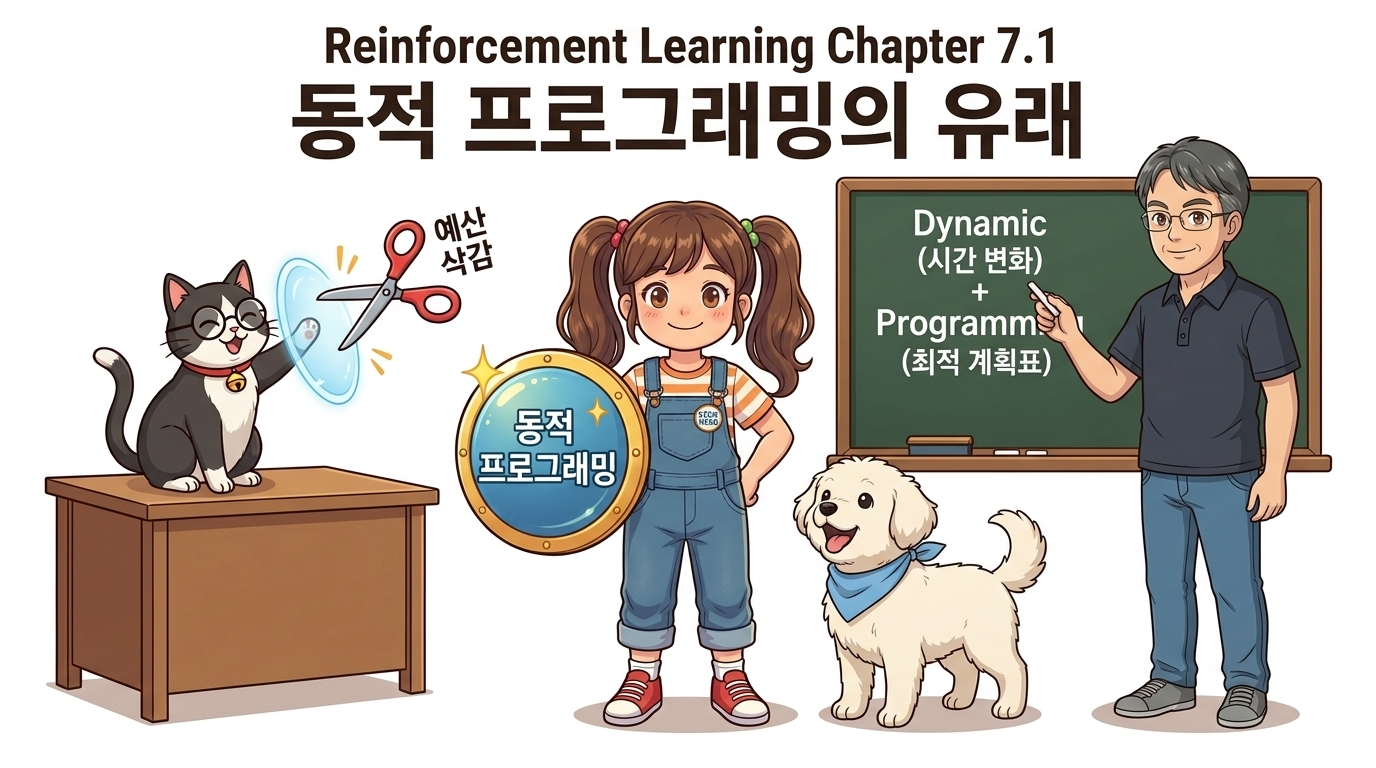
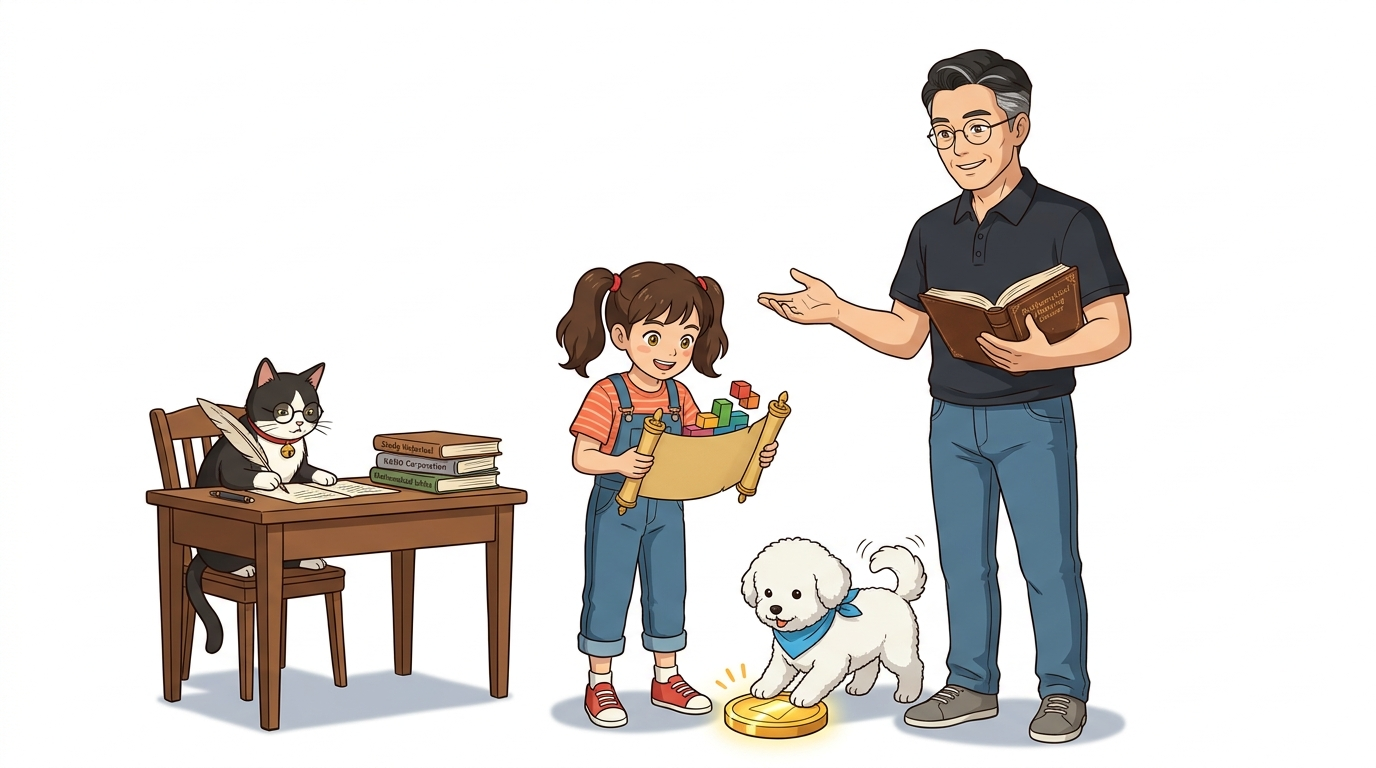
feat(ch07): 7장 동적 프로그래밍 전 서브챕터(7_1~7_7) 커버 이미지 및 프롬프트 재정의 생성, 지킬 빌드 완료

diff --git a/docs/07_동적_프로그래밍/7_4_정책_반복법/index.html b/docs/07_동적_프로그래밍/7_4_정책_반복법/index.html
@@ -631,14 +631,8 @@
         <div class="bd-content ps-lg-4">
             <h1 id="074-정책-반복법">07.4 정책 반복법</h1>
 
-<p><img src="./7_4_정책_반복법.png" alt="정책 반복법 사이클: 정책 평가와 정책 발전" /></p>
-
-<p>언제나 최종 목표는 최적 정책 찾기입니다.</p>
-
-<p><strong>그림 07-14-0</strong> 정책 평가(Evaluation)와 정책 개선(Improvement)의 핑퐁 탁구 랠리를 이어가는 지니와 도로시
-<img src="./img/jiny_dorothy_policy_iteration_pingpong.png" alt="정책 반복법 인트로" /></p>
-
-<p>정책 반복법(Policy Iteration)은 한 번에 정답 지도를 완벽하게 구하려 욕심내지 않습니다. 그 대신, 현재 엉성한 지도의 점수를 정직하게 매기는 <strong>‘정책 평가’</strong>와, 매겨진 점수를 보고 조금 더 좋은 방향으로 지도를 고치는 <strong>‘정책 개선’</strong>의 두 과정을 탁구공(핑퐁)처럼 끊임없이 주거니 받거니 반복하며 결국에는 완벽한 최적 정책 지도로 수렴해 나가는 전략입니다. 지니가 열어준 핑퐁 랠리처럼 두 과정이 어떻게 주거니 받거니 엮이는지 함께 살펴볼까요?</p>
+<p><img src="./7_4_정책_반복법.png" alt="07.4 정책 반복법" />
+<strong>그림 07-4-Intro</strong> 정책 평가와 정책 개선이 상호작용하며 최적 정책에 수렴하는 정책 반복법 (이호진 교수와 도로시 탐험대)</p>
 
 <hr />
 

diff --git a/docs/07_동적_프로그래밍/7_1_유래/index.html b/docs/07_동적_프로그래밍/7_1_유래/index.html
@@ -631,6 +631,11 @@
         <div class="bd-content ps-lg-4">
             <h1 id="071-동적-프로그래밍의-유래">07.1 동적 프로그래밍의 유래</h1>
 
+<p><img src="./7_1_유래.png" alt="07.1 동적 프로그래밍의 유래" />
+<strong>그림 07-1-Intro</strong> 1950년대 리처드 벨만의 계획표(Planning Table)와 메모이제이션의 유래를 탐구하는 이호진 교수와 도로시 탐험대</p>
+
+<hr />
+
 <p>강화 학습과 컴퓨터 과학에서 가장 핵심적인 최적화 기둥으로 손꼽히는 <strong>동적 프로그래밍(Dynamic Programming, DP)</strong>이라는 용어는 처음 접하는 이들에게 왠지 모를 기술적 위압감을 줍니다. 많은 사람들이 컴퓨터 메모리를 동적으로 쪼개고 코드를 한 줄 한 줄 극한으로 최적화하는 복잡한 저수준 시스템 프로그래밍 기법을 먼저 연상하곤 합니다.</p>
 
 <p><img src="./img/01_dp_technical_intimidation.png" alt="동적 프로그래밍의 기술적 위압감" />

diff --git a/docs/07_동적_프로그래밍/7_2_동적_프로그래밍과_정책_평가/index.html b/docs/07_동적_프로그래밍/7_2_동적_프로그래밍과_정책_평가/index.html
@@ -631,6 +631,11 @@
         <div class="bd-content ps-lg-4">
             <h1 id="072-동적-프로그래밍과-정책-평가">07.2 동적 프로그래밍과 정책 평가</h1>
 
+<p><img src="./7_2_동적_프로그래밍과_정책_평가.png" alt="07.2 동적 프로그래밍과 정책 평가" />
+<strong>그림 07-2-Intro</strong> 벨만 기대 방정식의 반복적 갱신(Iterative Policy Evaluation)을 통해 상태 가치 함수를 계산하는 이호진 교수와 도로시 탐험대</p>
+
+<hr />
+
 <p>동적 프로그래밍(Dynamic Programming, DP)은 <strong>환경의 모든 정보(규칙)를 완벽하게 알고 있는 상태</strong>에서, 컴퓨터의 반복 연산을 통해 지도의 가치를 안전하고 정밀하게 <strong>계산해내는 방식</strong>입니다.</p>
 
 <p>마법사 고양이 지니가 칠판 가득 그려준 개념도처럼, 우리가 가진 환경 정보를 어떻게 진짜 가치 지도로 탈바꿈시키는지 7장의 모험을 힘차게 시작해봅시다!</p>

diff --git a/docs/07_동적_프로그래밍/7_7_정리/index.html b/docs/07_동적_프로그래밍/7_7_정리/index.html
@@ -631,6 +631,11 @@
         <div class="bd-content ps-lg-4">
             <h1 id="077-정리">07.7 정리</h1>
 
+<p><img src="./7_7_정리.png" alt="07.7 정리" />
+<strong>그림 07-7-Intro</strong> 정책 반복법과 가치 반복법을 완벽 정리하고 모델-프리(Model-Free) 강화학습으로 도약하는 이호진 교수와 도로시 탐험대</p>
+
+<hr />
+
 <p>이번 7장에서는 환경의 모델(전이 확률 $p$와 보상 $r$)을 완벽히 알고 있는 상태에서, 컴퓨터의 반복 연산만으로 최적 정책을 찾아내는 <strong>동적 프로그래밍(Dynamic Programming, DP)</strong>의 핵심 이론과 구현을 모두 마스터했습니다. 그 주인공은 바로 <strong>정책 반복법(Policy Iteration)</strong>과 <strong>가치 반복법(Value Iteration)</strong>입니다.</p>
 
 <p><img src="./img/dp_summary_two_methods.png" alt="동적 프로그래밍의 두 기둥: 정책 반복법과 가치 반복법" />

diff --git a/docs/07_동적_프로그래밍/7_5_정책_반복법_구현/index.html b/docs/07_동적_프로그래밍/7_5_정책_반복법_구현/index.html
@@ -631,6 +631,11 @@
         <div class="bd-content ps-lg-4">
             <h1 id="075-정책-반복법-구현">07.5 정책 반복법 구현</h1>
 
+<p><img src="./7_5_정책_반복법_구현.png" alt="07.5 정책 반복법 구현" />
+<strong>그림 07-5-Intro</strong> 파이썬 코드로 정책 평가와 개선의 수렴 조건($\Delta &lt; \theta$)을 직접 실행·검증하는 이호진 교수와 도로시 탐험대</p>
+
+<hr />
+
 <p>정책 반복법을 이용하여 최적 정책을 찾아봅시다.</p>
 
 <p><strong>그림 07-14-1</strong> 정책 평가와 개선 기어를 파이썬 렌치로 유기적으로 연결하여 조립하는 지니와 도로시

diff --git a/docs/07_동적_프로그래밍/7_3_더_큰_문제를_향해/index.html b/docs/07_동적_프로그래밍/7_3_더_큰_문제를_향해/index.html
@@ -631,6 +631,11 @@
         <div class="bd-content ps-lg-4">
             <h1 id="073-더-큰-문제를-향해">07.3 더 큰 문제를 향해</h1>
 
+<p><img src="./7_3_더_큰_문제를_향해.png" alt="07.3 더 큰 문제를 향해" />
+<strong>그림 07-3-Intro</strong> 4×4 대형 격자 공간으로의 확장과 제자리(In-Place) 갱신의 효율성을 체감하는 이호진 교수와 도로시 탐험대</p>
+
+<hr />
+
 <p><strong>그림 07-7-1</strong> 좁은 2칸의 방을 벗어나 3x4 격자 숲속으로 모험 영역을 확장하는 지니, 도로시, 토토
 <img src="./img/jiny_dorothy_gridworld_expansion.png" alt="그림 07-7-1" /></p>
 

diff --git a/docs/07_동적_프로그래밍/7_6_가치_반복법/index.html b/docs/07_동적_프로그래밍/7_6_가치_반복법/index.html
@@ -631,6 +631,11 @@
         <div class="bd-content ps-lg-4">
             <h1 id="076-가치-반복법">07.6 가치 반복법</h1>
 
+<p><img src="./7_6_가치_반복법.png" alt="07.6 가치 반복법" />
+<strong>그림 07-6-Intro</strong> 단 한 번의 스윕으로 벨만 최적 방정식을 적용하여 최댓값(MAX)을 찾는 가치 반복법 (이호진 교수와 도로시 탐험대)</p>
+
+<hr />
+
 <p>앞에서는 정책 반복법을 사용하여 최적 정책을 찾았습니다.</p>
 
 <p><strong>그림 07-20-1</strong> 홀로그램 지도의 각 격자점 가치를 직접 최대(max)로 갱신하는 것을 관찰하는 지니와 도로시

diff --git a/src/07_동적_프로그래밍/7_4_정책_반복법/index.md b/src/07_동적_프로그래밍/7_4_정책_반복법/index.md
@@ -5,18 +5,10 @@ title: "07.4 정책 반복법"
 
 # 07.4 정책 반복법
 
-![정책 반복법 사이클: 정책 평가와 정책 발전](./7_4_정책_반복법.png)
-
-언제나 최종 목표는 최적 정책 찾기입니다. 
-
-**그림 07-14-0** 정책 평가(Evaluation)와 정책 개선(Improvement)의 핑퐁 탁구 랠리를 이어가는 지니와 도로시
-![정책 반복법 인트로](./img/jiny_dorothy_policy_iteration_pingpong.png)
-
-정책 반복법(Policy Iteration)은 한 번에 정답 지도를 완벽하게 구하려 욕심내지 않습니다. 그 대신, 현재 엉성한 지도의 점수를 정직하게 매기는 **'정책 평가'**와, 매겨진 점수를 보고 조금 더 좋은 방향으로 지도를 고치는 **'정책 개선'**의 두 과정을 탁구공(핑퐁)처럼 끊임없이 주거니 받거니 반복하며 결국에는 완벽한 최적 정책 지도로 수렴해 나가는 전략입니다. 지니가 열어준 핑퐁 랠리처럼 두 과정이 어떻게 주거니 받거니 엮이는지 함께 살펴볼까요?
+![07.4 정책 반복법](./7_4_정책_반복법.png)
+**그림 07-4-Intro** 정책 평가와 정책 개선이 상호작용하며 최적 정책에 수렴하는 정책 반복법 (이호진 교수와 도로시 탐험대)
 
 ---
-
-
 
 벨만 최적 방정식을 만족하는 **연립방정식**을 푸는 방법도 있었습니다. 하지만 계산량이 너무 많았죠. 
 

diff --git a/src/07_동적_프로그래밍/7_1_유래/index.md b/src/07_동적_프로그래밍/7_1_유래/index.md
@@ -5,6 +5,11 @@ title: "07.1 동적 프로그래밍의 유래"
 
 # 07.1 동적 프로그래밍의 유래
 
+![07.1 동적 프로그래밍의 유래](./7_1_유래.png)
+**그림 07-1-Intro** 1950년대 리처드 벨만의 계획표(Planning Table)와 메모이제이션의 유래를 탐구하는 이호진 교수와 도로시 탐험대
+
+---
+
 강화 학습과 컴퓨터 과학에서 가장 핵심적인 최적화 기둥으로 손꼽히는 **동적 프로그래밍(Dynamic Programming, DP)**이라는 용어는 처음 접하는 이들에게 왠지 모를 기술적 위압감을 줍니다. 많은 사람들이 컴퓨터 메모리를 동적으로 쪼개고 코드를 한 줄 한 줄 극한으로 최적화하는 복잡한 저수준 시스템 프로그래밍 기법을 먼저 연상하곤 합니다.
 
 ![동적 프로그래밍의 기술적 위압감](./img/01_dp_technical_intimidation.png)

diff --git a/src/07_동적_프로그래밍/7_7_정리/index.md b/src/07_동적_프로그래밍/7_7_정리/index.md
@@ -5,6 +5,11 @@ title: "07.7 정리"
 
 # 07.7 정리
 
+![07.7 정리](./7_7_정리.png)
+**그림 07-7-Intro** 정책 반복법과 가치 반복법을 완벽 정리하고 모델-프리(Model-Free) 강화학습으로 도약하는 이호진 교수와 도로시 탐험대
+
+---
+
 이번 7장에서는 환경의 모델(전이 확률 $p$와 보상 $r$)을 완벽히 알고 있는 상태에서, 컴퓨터의 반복 연산만으로 최적 정책을 찾아내는 **동적 프로그래밍(Dynamic Programming, DP)**의 핵심 이론과 구현을 모두 마스터했습니다. 그 주인공은 바로 **정책 반복법(Policy Iteration)**과 **가치 반복법(Value Iteration)**입니다.
 
 ![동적 프로그래밍의 두 기둥: 정책 반복법과 가치 반복법](./img/dp_summary_two_methods.png)

diff --git a/src/07_동적_프로그래밍/7_2_동적_프로그래밍과_정책_평가/index.md b/src/07_동적_프로그래밍/7_2_동적_프로그래밍과_정책_평가/index.md
@@ -5,6 +5,11 @@ title: "07.2 동적 프로그래밍과 정책 평가"
 
 # 07.2 동적 프로그래밍과 정책 평가
 
+![07.2 동적 프로그래밍과 정책 평가](./7_2_동적_프로그래밍과_정책_평가.png)
+**그림 07-2-Intro** 벨만 기대 방정식의 반복적 갱신(Iterative Policy Evaluation)을 통해 상태 가치 함수를 계산하는 이호진 교수와 도로시 탐험대
+
+---
+
 동적 프로그래밍(Dynamic Programming, DP)은 **환경의 모든 정보(규칙)를 완벽하게 알고 있는 상태**에서, 컴퓨터의 반복 연산을 통해 지도의 가치를 안전하고 정밀하게 **계산해내는 방식**입니다. 
 
 

diff --git a/src/07_동적_프로그래밍/7_5_정책_반복법_구현/index.md b/src/07_동적_프로그래밍/7_5_정책_반복법_구현/index.md
@@ -5,6 +5,11 @@ title: "07.5 정책 반복법 구현"
 
 # 07.5 정책 반복법 구현
 
+![07.5 정책 반복법 구현](./7_5_정책_반복법_구현.png)
+**그림 07-5-Intro** 파이썬 코드로 정책 평가와 개선의 수렴 조건($\Delta < \theta$)을 직접 실행·검증하는 이호진 교수와 도로시 탐험대
+
+---
+
 정책 반복법을 이용하여 최적 정책을 찾아봅시다. 
 
 **그림 07-14-1** 정책 평가와 개선 기어를 파이썬 렌치로 유기적으로 연결하여 조립하는 지니와 도로시
